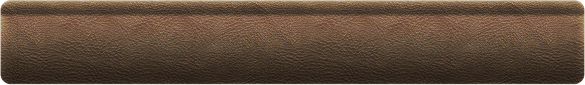
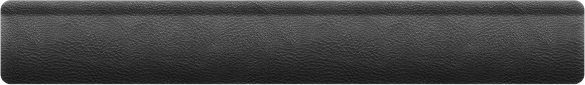
Updating settings view to actually tell you info

diff --git a/styles/settings.rb b/styles/settings.rb
@@ -2,20 +2,22 @@ Teacup::Stylesheet.new :settings do
   import :base
 
   v_padding = 10
-  gradient_top_color = 0xc3a477.uicolor 
-  gradient_bottom_color = 0x9f8061.uicolor
 
-  # Commented out because it doesn't seem to play nicely with landscape
-  #style :settings,
-  #  gradient: { 
-  #    colors: [gradient_top_color.CGColor, gradient_bottom_color.CGColor] 
-  #  }
-
-  style :label, extends: :custom_label,
+  style :try, extends: :custom_label,
     constraints: [
       :full_width,
-      constrain_top(150)
+      constrain(:height).equals(:superview, :height).divided_by(5),
+      constrain_top(20)
     ],
-    backgroundColor: :clear
+    text: "Want to actually start a conversation?  Try This!",
+    backgroundColor: :clear,
+    height: 200,
+    font: :bold.uifont(20)
+
+  style :chatoms, extends: :chatoms_button,
+    constraints: [
+      constrain(:center_x).equals(:superview, :center_x),
+      constrain_below(:try)
+    ]
 
 end

diff --git a/styles/base.rb b/styles/base.rb
@@ -1,6 +1,6 @@
 Teacup::Stylesheet.new :base do
   back_color = 0xa53d3d.uicolor 
-  dark_color = 0x4a1c1c.uicolor
+  dark_color = 0x000000.uicolor
   mid_color = 0x823131.uicolor
 
   style UIView,
@@ -12,7 +12,7 @@ Teacup::Stylesheet.new :base do
     text: 'Stop That Convo!',
     backgroundColor: :clear,
     numberOfLines: 0,
-    font: :bold.uifont(40),
+    font: :bold.uifont(36),
     textColor: :white,
     shadowColor: :black,
     textAlignment: UITextAlignmentCenter,
@@ -30,9 +30,12 @@ Teacup::Stylesheet.new :base do
     button_background: 'large_button'
  
   style :settings_button,
-    button_background: 'gear',
+    button_background: 'skull',
     height: 18,
     width: 18,
     backgroundColor: :clear
+
+  style :chatoms_button,
+    image: 'chatoms'
 
 end

diff --git a/styles/handlers.rb b/styles/handlers.rb
@@ -15,10 +15,3 @@ Teacup.handler UIRoundedRectButton, :button_background do |view, image, text_col
   view.setBackgroundImage(image.uiimage, forState:UIControlStateNormal)
   view.setTitleColor(text_color, forState:UIControlStateNormal)
 end
-
-Teacup.handler UISegmentedControl, :backgroundOn do |view, image, segment_image|
-	segment_image ||= 'segment'.uiimage
-	view.setDividerImage(segment_image.uiimage, forLeftSegmentState: UIControlStateSelected, rightSegmentState: UIControlStateNormal, barMetrics: UIBarMetricsDefault)
-	view.setBackgroundImage(image.uiimage, forState:UIControlStateNormal, barMetrics:UIBarMetricsDefault)
-end
-

diff --git a/app/controllers/settings_controller.rb b/app/controllers/settings_controller.rb
@@ -2,7 +2,19 @@ class SettingsController < UIViewController
   stylesheet :settings
 
   layout :settings do
-    @label = subview(UILabel, :label)
+    @label = subview(UILabel, :try)
+    @chatoms = subview(UIButton.rounded_rect, :chatoms)
   end  
+
+  def viewDidLoad
+  	super
+
+ 		# Open Chatoms
+    @chatoms.on(:touch) do 
+  		url = "itms-apps://itunes.apple.com/app/chatoms/id520369740"
+  		url.nsurl.open
+  	end
+
+  end
 
 end
